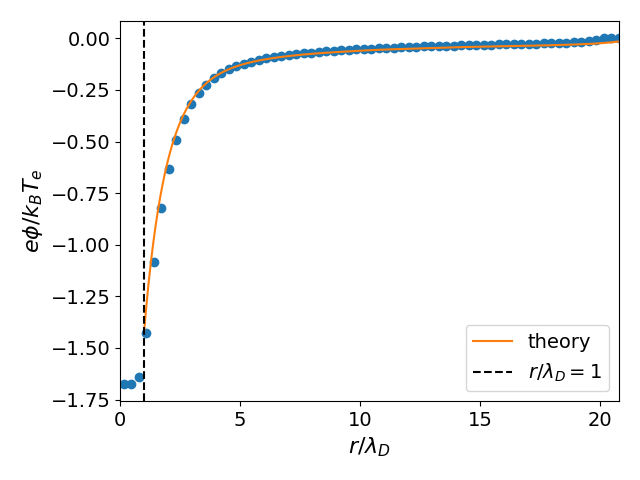
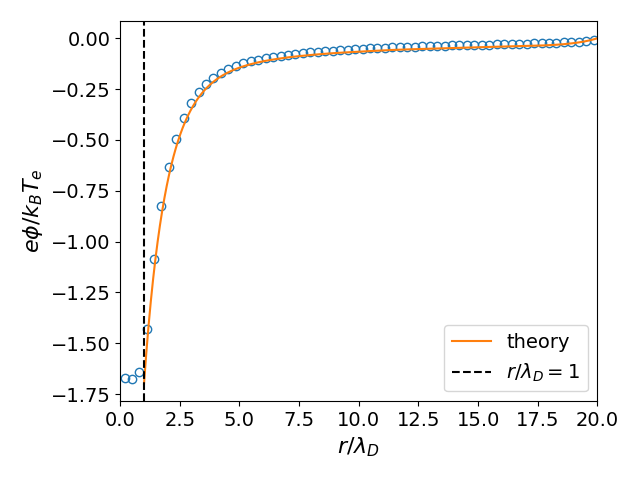
updated figures

diff --git a/examples/sheath_oml/sheath_oml.py b/examples/sheath_oml/sheath_oml.py
@@ -21,17 +21,27 @@ import numpy as np
 import matplotlib.pyplot as plt
 
 from scipy.integrate import solve_bvp
-from scipy.optimize import fsolve
-from scipy.special import roots_legendre, erf, k0, k1
+from scipy.optimize import brentq
+from scipy.special import roots_legendre, erf, erfcx, k0, k1
 
 
 def floating_potential(mr: float, Tr: float):
-    """Normalized floating potential phi_d from ion/electron current balance.
+    """Normalized floating potential phi_d from 2D2V cylindrical OML current balance.
 
-    sqrt(mr/Tr) * exp(phi_d) + phi_d/Tr = 1.
+    Per unit length, with chi = -phi_d/Tr:
+        I_e ~ sqrt(2 pi) a n v_te exp(phi_d)
+        I_i ~ 2 sqrt(2) a n v_ti [sqrt(chi) + sqrt(pi)/2 exp(chi) erfc(sqrt(chi))]
+    so sqrt(mr/Tr) * exp(phi_d) = 2/sqrt(pi) sqrt(chi) + exp(chi) erfc(sqrt(chi)).
+    (The spherical result 1 + chi does not apply in 2D.)
     """
-    solution = fsolve(lambda phi: np.sqrt(mr / Tr) * np.exp(phi) + phi / Tr - 1, -1.0)
-    return solution[0]
+
+    def balance(phi):
+        chi = -phi / Tr
+        return np.sqrt(mr / Tr) * np.exp(phi) - (
+            2.0 / np.sqrt(np.pi) * np.sqrt(chi) + erfcx(np.sqrt(chi))
+        )
+
+    return brentq(balance, -50.0, 0.0)
 
 
 @dataclass(frozen=True)
@@ -43,6 +53,10 @@ class OMLParameters:
 
     Tr: float = 1.0
     mr: float = 100.0
+
+    # Outer BC at r = rmax: "robin" models an unbounded plasma via linearized
+    # 2D Debye screening; "dirichlet" pins phi(rmax) = 0 like a grounded wall.
+    outer_bc: str = "robin"
 
 
 def _gauss_legendre_half_line(order, u_max):
@@ -107,8 +121,9 @@ def oml_density(
 def solve_oml(params=None):
     """Solve the normalized cylindrical OML-Poisson BVP.
 
-    BCs: phi(a) = phi_d at the dust surface; linearized 2D Debye screening
-    phi'(R) = -K1(R)/K0(R) * phi(R) at the outer boundary.
+    BCs: phi(a) = phi_d at the dust surface; at the outer boundary either
+    linearized 2D Debye screening phi'(R) = -K1(R)/K0(R) * phi(R)
+    (outer_bc="robin") or phi(R) = 0 (outer_bc="dirichlet").
 
     Returns a BVPResult with sol.params and sol.density(r, phi) attached.
     """
@@ -158,11 +173,15 @@ def solve_oml(params=None):
 
     alpha = k1(R) / k0(R)  # dK0/dx = -K1
 
+    if params.outer_bc not in ("robin", "dirichlet"):
+        raise ValueError(f"Unknown outer_bc: {params.outer_bc!r}")
+
     def bc(ya, yb):
-        return np.array([
-            ya[0] - phi_d,
-            yb[1] + alpha * yb[0],
-        ])
+        if params.outer_bc == "dirichlet":
+            outer = yb[0]
+        else:
+            outer = yb[1] + alpha * yb[0]
+        return np.array([ya[0] - phi_d, outer])
 
     sol = solve_bvp(
         ode,
@@ -180,6 +199,7 @@ def solve_oml(params=None):
         )
 
     sol.params = params
+    sol.phi_d = phi_d
 
     def density_at(r, phi=None):
         r = np.asarray(r, dtype=float)
@@ -198,16 +218,16 @@ def plot_potential(sol, ax=None, show=True, label=None):
         _, ax = plt.subplots()
 
     x = np.linspace(
-        sol.params.a_over_lambda_D,
-        sol.params.rmax_over_lambda_D,
+        sol.params.a,
+        sol.params.rmax,
         600,
     )
     phi = sol.sol(x)[0]
 
     if label is None:
         label = (
-            rf"$\phi_d={sol.params.phi_d:g}$, "
-            rf"$a/\lambda_{{De}}={sol.params.a_over_lambda_D:g}$"
+            rf"$\phi_d={sol.phi_d:.3f}$, "
+            rf"$a/\lambda_{{De}}={sol.params.a:g}$"
         )
 
     ax.plot(x, phi, label=label)

diff --git a/examples/sheath_oml/plottings.py b/examples/sheath_oml/plottings.py
@@ -105,11 +105,18 @@ ax.set_ylabel("$y/\\lambda_D$")
 plt.tight_layout()
 plt.savefig(f"{file_path}/potential.png")
 
+# Radial cut along +x through the row nearest y = 0, interior cells only
+# (ghost cells hold boundary data, e.g. the half-Maxwellian injection).
+jc = phi.shape[1] // 2
+cut = (x > 0) & (x < x_min + Lx)
+r_cut = np.hypot(x[cut], y[jc])
+
 params = OMLParameters(
     a=1.0,
-    rmax=x.max(),
+    rmax=x_min + Lx,  # grounded wall where the cut meets the domain boundary
     Tr=1,
     mr=100,  # mi / me
+    outer_bc="dirichlet",
 )
 sol = solve_oml(params)
 
@@ -120,26 +127,26 @@ xx = np.linspace(
 )
 phi_a = sol.sol(xx)[0]
 plt.figure()
-plt.plot(x, phi[:, phi.shape[1] // 2], "o")
+plt.plot(r_cut, phi[cut, jc], "o", fillstyle="none")
 plt.plot(xx, phi_a, "-", label="theory")
 plt.xlabel("$r/\\lambda_D$")
 plt.ylabel("$e\\phi / k_BT_e$")
 plt.axvline(x=1, color="k", linestyle="--", label="$r/\\lambda_D=1$")
 plt.legend()
-plt.xlim(0, x.max())
+plt.xlim(0, sol.params.rmax)
 plt.tight_layout()
 plt.savefig(f"{file_path}/potential_profiles.png")
 
-# plt.figure()
-# line_i = plt.plot(x, ni[:, ni.shape[1] // 2], "o", label="$n_i$")[0]
-# line_e = plt.plot(x, ne[:, ne.shape[1] // 2], "o", label="$n_e$")[0]
-# plt.plot(xx, sol.density(xx)[0], "-", color=line_i.get_color(), label="$n_{ia}$")
-# plt.plot(xx, sol.density(xx)[1], "-", color=line_e.get_color(), label="$n_{ea}$")
-# plt.xlabel("$r/\\lambda_D$")
-# plt.ylabel("$n_i$")
-# plt.axvline(x=1, color="k", linestyle="--", label="$r=1$")
-# plt.legend()
-# plt.xlim(0, xx.max())
-# plt.savefig(f"{file_path}/density.png")
+plt.figure()
+line_i = plt.plot(r_cut, ni[cut, jc], "o", fillstyle="none", label="$n_i$")[0]
+line_e = plt.plot(r_cut, ne[cut, jc], "o", fillstyle="none", label="$n_e$")[0]
+plt.plot(xx, sol.density(xx)[0], "-", color=line_i.get_color(), label="$n_{ia}$")
+plt.plot(xx, sol.density(xx)[1], "-", color=line_e.get_color(), label="$n_{ea}$")
+plt.xlabel("$r/\\lambda_D$")
+plt.ylabel("$n_i$")
+plt.axvline(x=1, color="k", linestyle="--", label="$r=1$")
+plt.legend()
+plt.xlim(0, sol.params.rmax)
+plt.savefig(f"{file_path}/density_profiles.png")
 
 plt.show()
